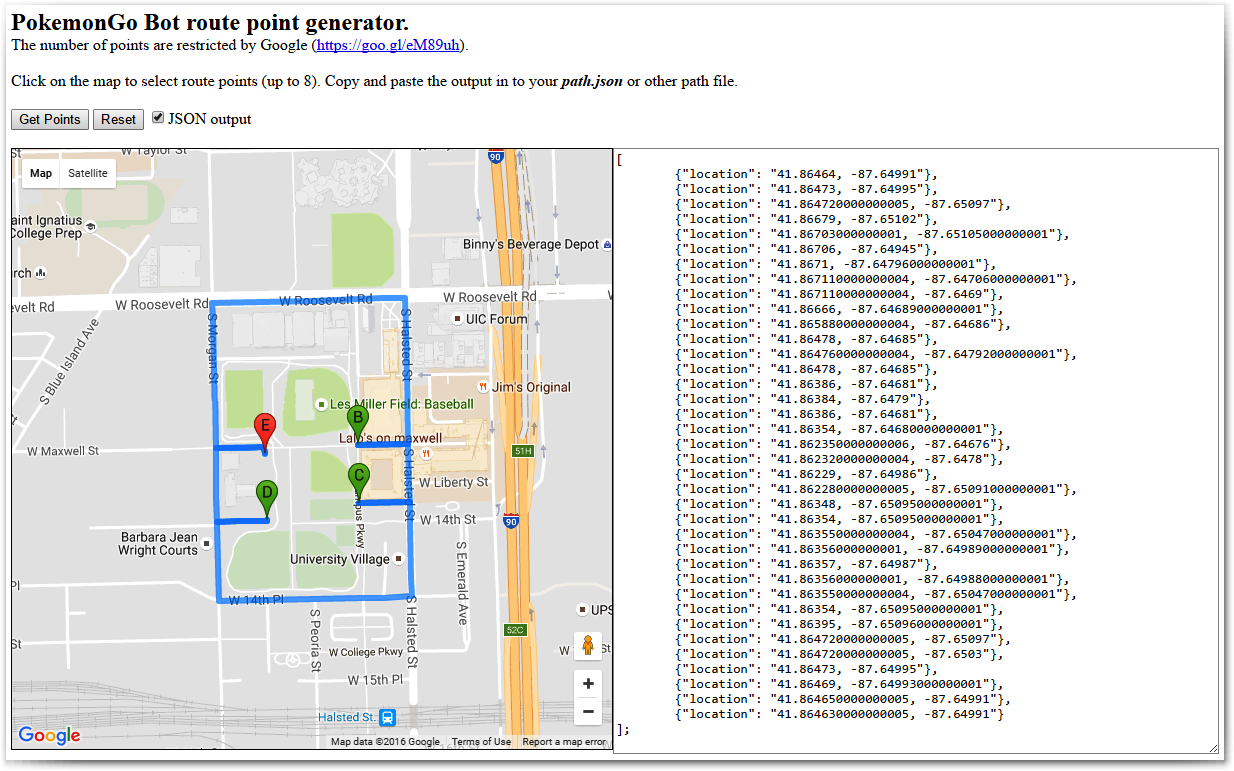
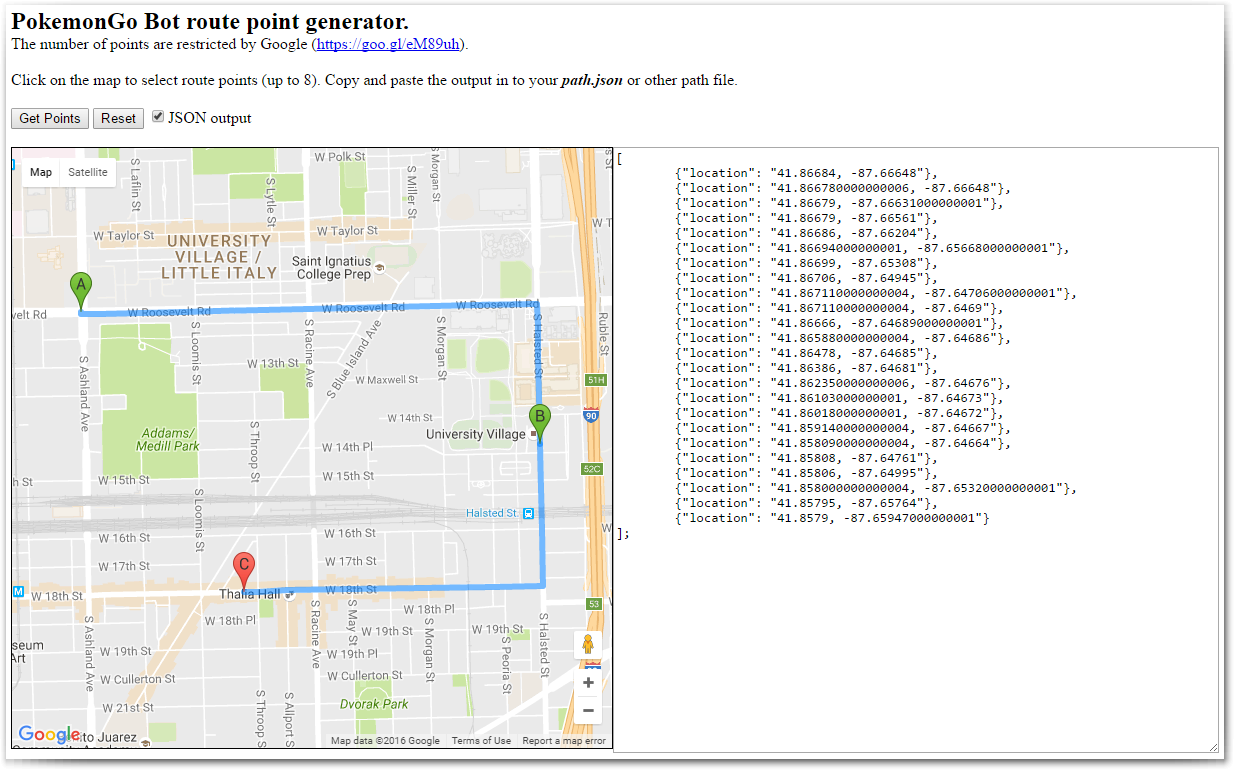
updated demo png and README.md

Changed region(s): [[0.0, 0.0, 0.5851, 0.9662], [0.5543, 0.2182, 0.8622, 0.9351]]

diff --git a/README.md b/README.md
@@ -4,7 +4,9 @@ This project was created out of need to generate a list of waypoints for use wit
 ## Installation
 Installation is a cinch. Download `poke_waypoints.html` and open in your favorite browser. After opening you will be presented with the following:
 
-![PokeBotWaypointGenerator](https://github.com/brandonhon/PokeBotWaypointGenerator/blob/master/demo_screenshot.png)
+![PokeBotWaypointGenerator](https://github.com/brandonhon/PokeBotWaypointGenerator/blob/master/empty_screenshot.png)
 
 ## Use
-Using the route generator is as easy as clicking on map. To setup a route you would like your bot to follow simply click the points on the map in order for the route you woule like to follow. 
+Using the route generator is as easy as clicking on map. The map can be zoomed in and out and dragged to the location of your choice.
+
+To setup a route for your bot first move and center the map over your location or the location you would like to use. Now select the starting point for your route. A marker will be placed at the selected point on the map with the label **A**.
